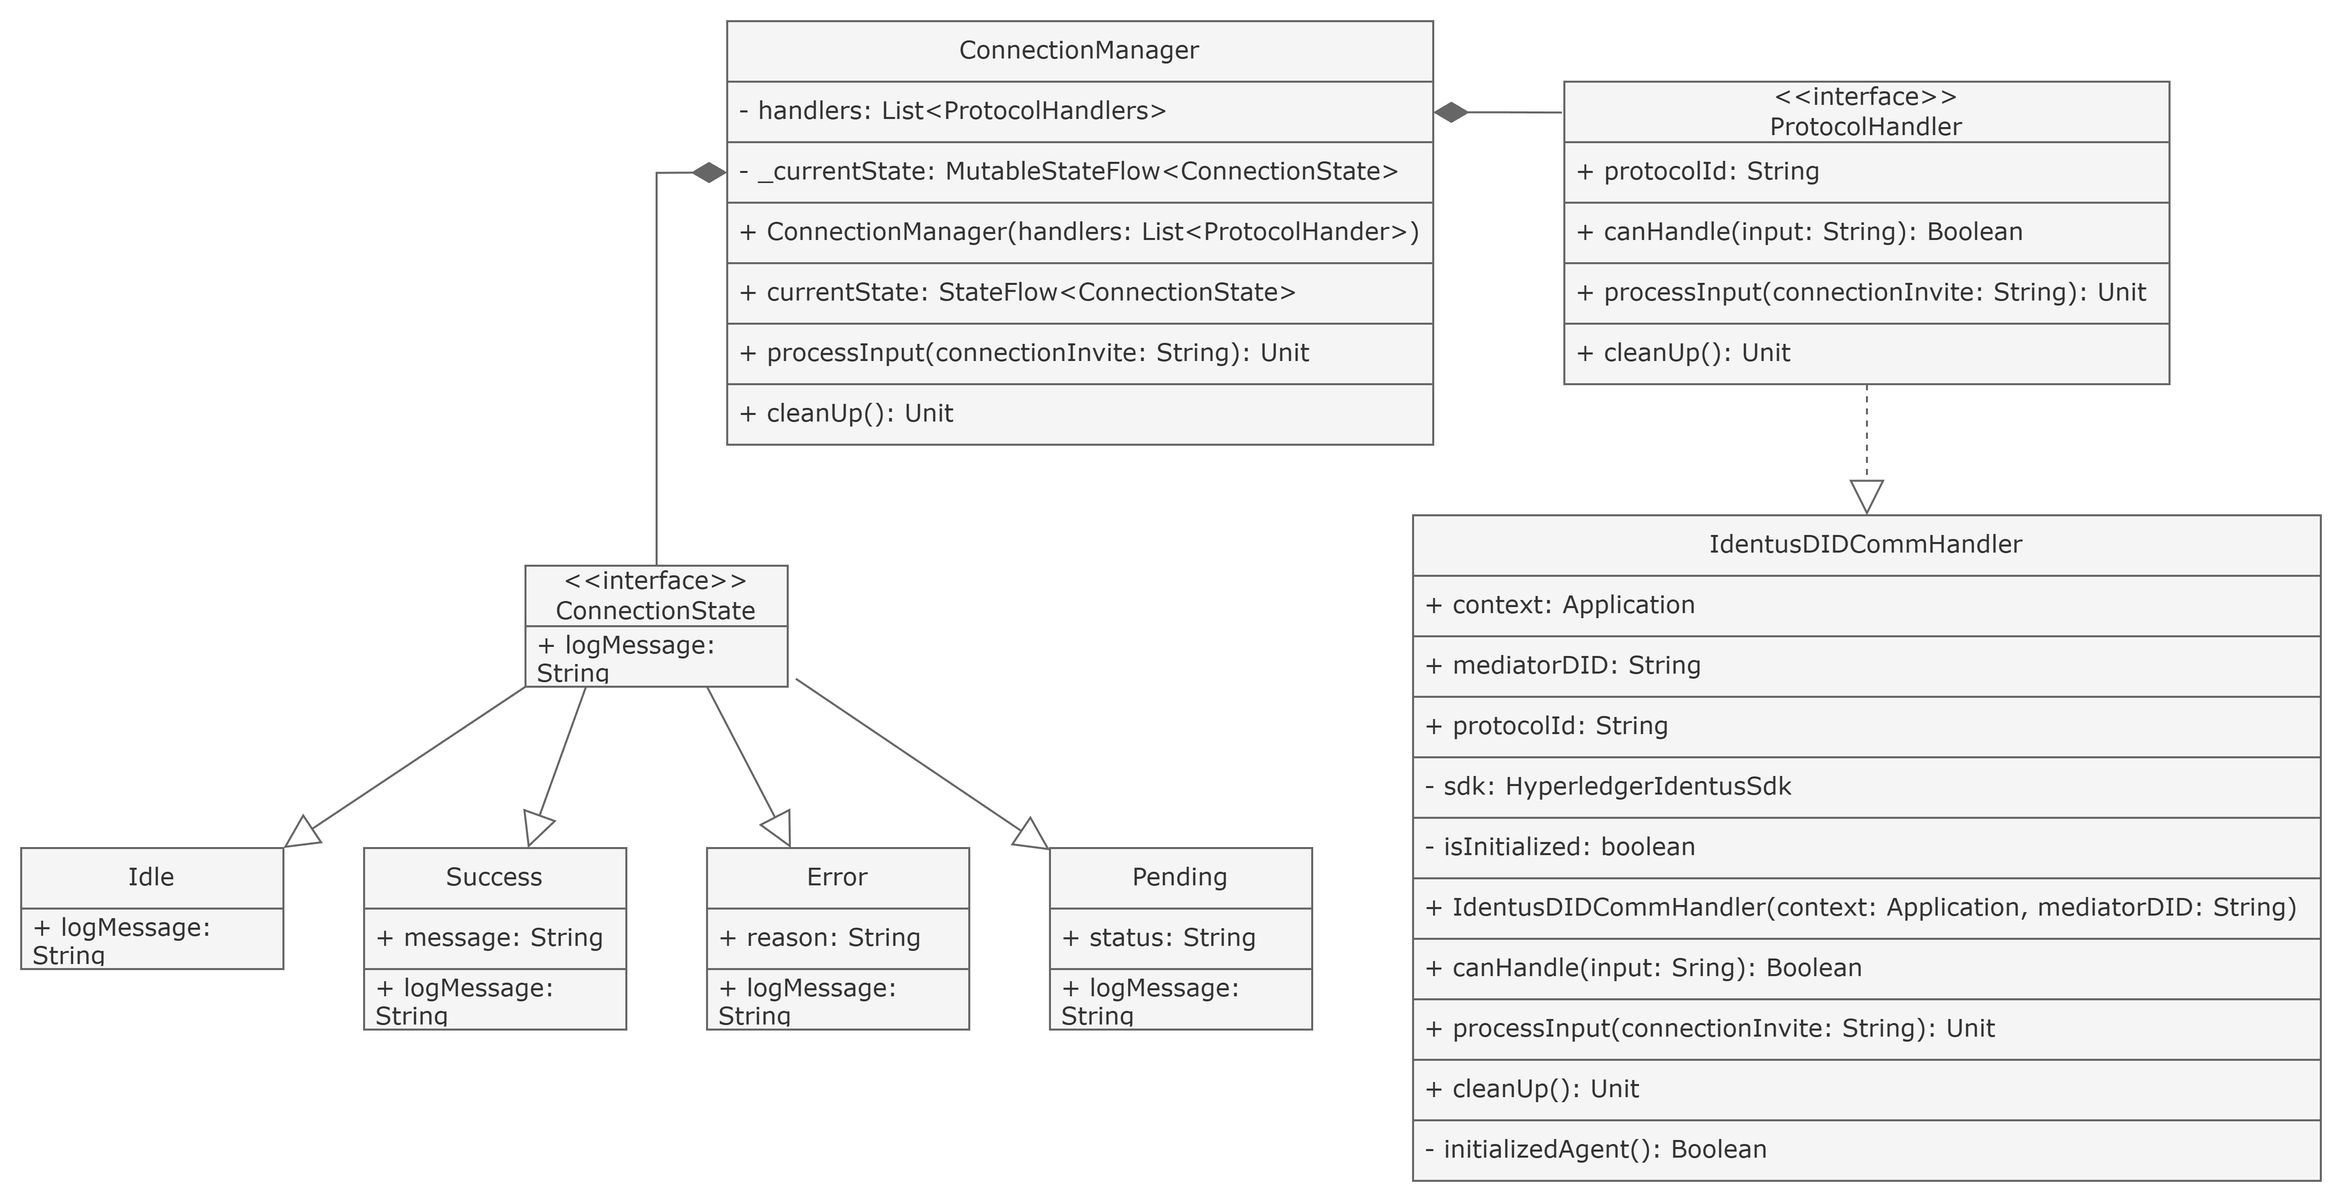
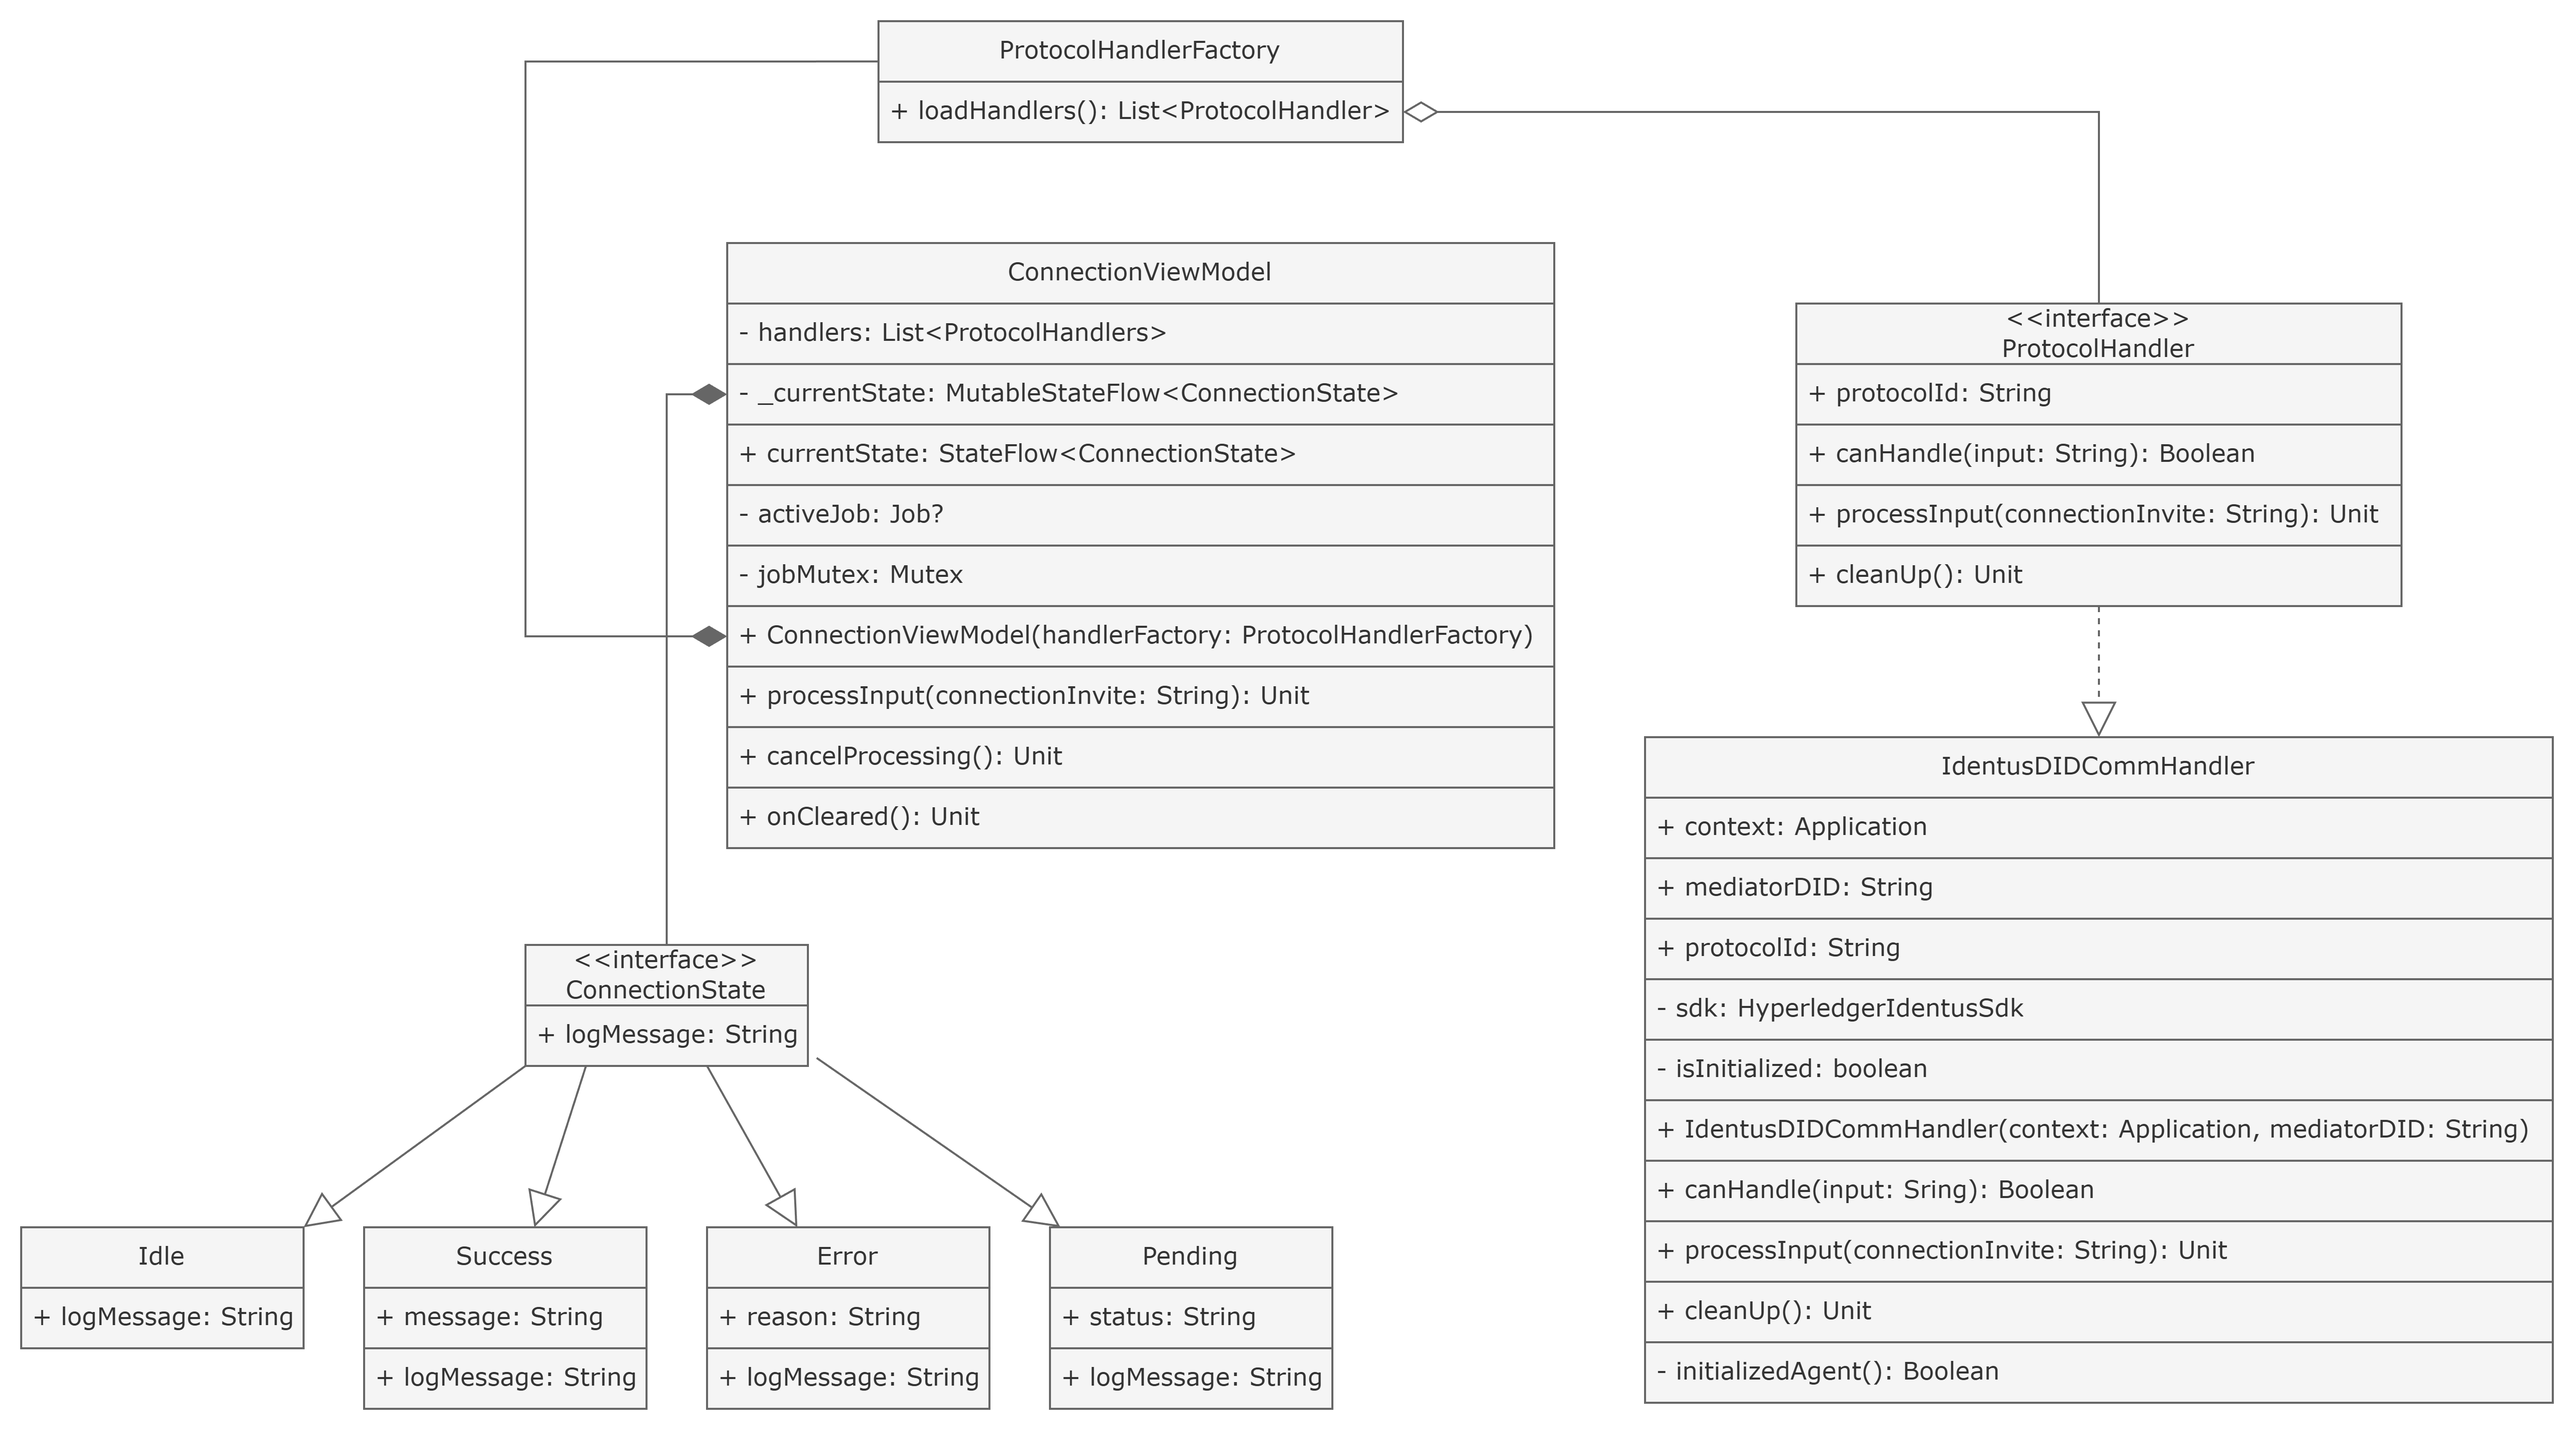
Refactor to accommodate MVVM pattern

diff --git a/composeApp/src/androidMain/kotlin/com/dev/usdi_wallet/MainActivity.kt b/composeApp/src/androidMain/kotlin/com/dev/usdi_wallet/MainActivity.kt
@@ -3,27 +3,31 @@ package com.dev.usdi_wallet
 import android.os.Bundle
 import androidx.activity.ComponentActivity
 import androidx.activity.compose.setContent
+import androidx.activity.viewModels
 import androidx.compose.foundation.layout.*
 import androidx.compose.material3.*
 import androidx.compose.ui.Modifier
-import com.dev.usdi_wallet.connection.ConnectionManager
-import com.dev.usdi_wallet.connection.hyperledger_identus.IdentusDIDCommHandler
+import androidx.lifecycle.ViewModel
+import androidx.lifecycle.ViewModelProvider
+import com.dev.usdi_wallet.connection.ProtocolHandlerFactory
+import com.dev.usdi_wallet.viewmodel.ConnectionViewModel
 
 class MainActivity : ComponentActivity() {
-    private lateinit var connectionManager: ConnectionManager
+    private val viewModel by viewModels<ConnectionViewModel> {
+        object : ViewModelProvider.Factory {
+            override fun <T : ViewModel> create(modelClass: Class<T>): T {
+                return ConnectionViewModel(
+                    handlerFactory = ProtocolHandlerFactory(
+                        context = applicationContext,
+                        mediatorDID = "did:peer:2.Ez6LSghwSE437wnDE1pt3X6hVDUQzSjsHzinpX3XFvMjRAm7y.Vz6Mkhh1e5CEYYq6JBUcTZ6Cp2ranCWRrv7Yax3Le4N59R6dd.SeyJ0IjoiZG0iLCJzIjp7InVyaSI6Imh0dHA6Ly8xMC4wLjIuMjo4MDgwIiwiYSI6WyJkaWRjb21tL3YyIl19fQ.SeyJ0IjoiZG0iLCJzIjp7InVyaSI6IndzOi8vMTAuMC4yLjI6ODA4MC93cyIsImEiOlsiZGlkY29tbS92MiJdfX0"
+                    )
+                ) as T
+            }
+        }
+    }
 
     override fun onCreate(savedInstanceState: Bundle?) {
         super.onCreate(savedInstanceState)
-
-        connectionManager = ConnectionManager(
-            handlers = listOf(
-                IdentusDIDCommHandler(
-                    context = application,
-                    // Demo mediatorDID
-                    mediatorDID = "did:peer:2.Ez6LSghwSE437wnDE1pt3X6hVDUQzSjsHzinpX3XFvMjRAm7y.Vz6Mkhh1e5CEYYq6JBUcTZ6Cp2ranCWRrv7Yax3Le4N59R6dd.SeyJ0IjoiZG0iLCJzIjp7InVyaSI6Imh0dHA6Ly8xMC4wLjIuMjo4MDgwIiwiYSI6WyJkaWRjb21tL3YyIl19fQ.SeyJ0IjoiZG0iLCJzIjp7InVyaSI6IndzOi8vMTAuMC4yLjI6ODA4MC93cyIsImEiOlsiZGlkY29tbS92MiJdfX0"
-                )
-            ),
-        )
 
         setContent {
             MaterialTheme {
@@ -31,14 +35,9 @@ class MainActivity : ComponentActivity() {
                     modifier = Modifier.fillMaxSize(),
                     color = MaterialTheme.colorScheme.background
                 ) {
-                    ConnectionTestScreen(connectionManager)
+                    ConnectionTestScreen(viewModel)
                 }
             }
         }
-    }
-
-    override fun onDestroy() {
-        super.onDestroy()
-        connectionManager.cleanUp()
     }
 }

diff --git a/shared/src/commonMain/kotlin/com/dev/usdi_wallet/viewmodel/ConnectionViewModel.kt b/shared/src/commonMain/kotlin/com/dev/usdi_wallet/viewmodel/ConnectionViewModel.kt
@@ -1,0 +1,57 @@
+package com.dev.usdi_wallet.viewmodel
+
+import androidx.lifecycle.ViewModel
+import androidx.lifecycle.viewModelScope
+import com.dev.usdi_wallet.connection.ConnectionState
+import com.dev.usdi_wallet.connection.ProtocolHandlerFactory
+import kotlinx.coroutines.flow.StateFlow
+import kotlinx.coroutines.Job
+import kotlinx.coroutines.flow.MutableStateFlow
+import kotlinx.coroutines.flow.update
+import kotlinx.coroutines.launch
+import kotlinx.coroutines.sync.Mutex
+import kotlinx.coroutines.sync.withLock
+
+class ConnectionViewModel(
+    handlerFactory: ProtocolHandlerFactory,
+): ViewModel() {
+    private val _currentState = MutableStateFlow<ConnectionState>(ConnectionState.Idle)
+    val currentState: StateFlow<ConnectionState> = _currentState
+    private var activeJob: Job? = null
+    private val jobMutex = Mutex()
+    private val handlers = handlerFactory.loadHandlers()
+
+    fun processInput(connectionInvite: String) {
+        val handler = handlers.find { it.canHandle(connectionInvite) }
+            ?: return _currentState.update { ConnectionState.Error("Unknown connection protocol") }
+
+        viewModelScope.launch {
+            jobMutex.withLock {
+                activeJob?.cancel()
+
+                activeJob = launch {
+                    try {
+                        handler.handle(connectionInvite).collect { newState ->
+                            _currentState.update { newState }
+                        }
+                    } catch (e: Exception) {
+                        _currentState.update { ConnectionState.Error(e.message ?: "Unknown Error") }
+                    }
+                }
+            }
+        }
+    }
+
+    suspend fun cancelProcessing() {
+        jobMutex.withLock {
+            activeJob?.cancel()
+            activeJob = null
+            _currentState.update { ConnectionState.Idle }
+        }
+    }
+
+    override fun onCleared() {
+        activeJob?.cancel()
+        handlers.forEach { it.cleanUp() }
+    }
+}

diff --git a/composeApp/src/androidMain/kotlin/com/dev/usdi_wallet/ConnectionTestScreen.kt b/composeApp/src/androidMain/kotlin/com/dev/usdi_wallet/ConnectionTestScreen.kt
@@ -25,14 +25,14 @@ import androidx.compose.ui.Alignment
 import androidx.compose.ui.Modifier
 import androidx.compose.ui.unit.dp
 import androidx.lifecycle.compose.collectAsStateWithLifecycle
-import com.dev.usdi_wallet.connection.ConnectionManager
 import com.dev.usdi_wallet.connection.ConnectionState
+import com.dev.usdi_wallet.viewmodel.ConnectionViewModel
 
 @OptIn(ExperimentalMaterial3Api::class)
 @Composable
-fun ConnectionTestScreen(connectionManager: ConnectionManager) {
+fun ConnectionTestScreen(viewModel: ConnectionViewModel) {
     var invitationInput by remember { mutableStateOf("") }
-    val connectionState by connectionManager.currentState.collectAsStateWithLifecycle()
+    val connectionState by viewModel.currentState.collectAsStateWithLifecycle()
 
     Column(
         modifier = Modifier
@@ -96,7 +96,7 @@ fun ConnectionTestScreen(connectionManager: ConnectionManager) {
         ) {
             Button(
                 onClick = {
-                    connectionManager.processInput(invitationInput)
+                    viewModel.processInput(invitationInput)
                 },
                 modifier = Modifier.weight(1f),
                 enabled = invitationInput.isNotBlank() &&

diff --git a/shared/src/androidMain/kotlin/com/dev/usdi_wallet/connection/hyperledger_identus/HyperledgerIdentusSdk.kt b/shared/src/androidMain/kotlin/com/dev/usdi_wallet/connection/hyperledger_identus/HyperledgerIdentusSdk.kt
@@ -51,7 +51,7 @@ class HyperledgerIdentusSdk private constructor(
     lateinit var agent: EdgeAgent
 
     @Throws(EdgeAgentError.MediationRequestFailedError::class, UnknownHostException::class)
-    suspend fun startAgent(mediatorDID: String, context: Application) {
+    suspend fun startAgent(mediatorDID: String, context: Context) {
         handler = createHandler(mediatorDID)
         agent = createAgent(handler)
 
@@ -81,7 +81,7 @@ class HyperledgerIdentusSdk private constructor(
         agentStatusStream.postValue(EdgeAgent.State.RUNNING)
     }
 
-    suspend fun startPluto(context: Application) {
+    suspend fun startPluto(context: Context) {
         (pluto as PlutoImpl).start(context)
     }
 

diff --git a/shared/src/androidMain/kotlin/com/dev/usdi_wallet/connection/hyperledger_identus/IdentusDIDCommHandler.kt b/shared/src/androidMain/kotlin/com/dev/usdi_wallet/connection/hyperledger_identus/IdentusDIDCommHandler.kt
@@ -1,6 +1,6 @@
 package com.dev.usdi_wallet.connection.hyperledger_identus
 
-import android.app.Application
+import android.content.Context
 import android.util.Log
 import com.dev.usdi_wallet.connection.ConnectionState
 import com.dev.usdi_wallet.connection.ProtocolHandler
@@ -12,7 +12,7 @@ import kotlinx.coroutines.flow.flow
 import org.hyperledger.identus.walletsdk.edgeagent.protocols.outOfBand.OutOfBandInvitation
 
 class IdentusDIDCommHandler(
-    private val context: Application,
+    private val context: Context,
     private val mediatorDID: String
 ): ProtocolHandler {
     override val protocolId: String = "identus-didcomm"

diff --git a/shared/src/androidMain/kotlin/com/dev/usdi_wallet/connection/ProtocolHandlerFactory.kt b/shared/src/androidMain/kotlin/com/dev/usdi_wallet/connection/ProtocolHandlerFactory.kt
@@ -1,0 +1,15 @@
+package com.dev.usdi_wallet.connection
+
+import android.content.Context
+import com.dev.usdi_wallet.connection.hyperledger_identus.IdentusDIDCommHandler
+
+actual class ProtocolHandlerFactory(
+    private val context: Context,
+    private val mediatorDID: String
+) {
+    actual fun loadHandlers(): List<ProtocolHandler> {
+        return listOf<ProtocolHandler>(
+            IdentusDIDCommHandler(context, mediatorDID),
+        )
+    }
+}

diff --git a/shared/src/commonMain/kotlin/com/dev/usdi_wallet/connection/ProtocolHandlerFactory.kt b/shared/src/commonMain/kotlin/com/dev/usdi_wallet/connection/ProtocolHandlerFactory.kt
@@ -1,0 +1,5 @@
+package com.dev.usdi_wallet.connection
+
+expect class ProtocolHandlerFactory {
+    fun loadHandlers(): List<ProtocolHandler>
+}

diff --git a/docs/CONNECTION.md b/docs/CONNECTION.md
@@ -4,12 +4,10 @@
 
 ## Store Github account and token in your Gradle directory
 ### Window
-1. Go to C:\Users\\\<username\>\\.gradle\\ (assuming you are running the project on Windows - if not, find equivalent path on your OS)
-2. Create a file called `gradle.properties` and add your credentials:
-### Linux
-1. Edit view all file, folder.
-2. Open .gradle folder
-3. Find file 'gradle.properties', if not  create and add.
+1. Go to your global `.gradle` directory:
+   - Windows: Go to C:\Users\\\<username\>\\.gradle\\
+   - Linux: Go to ~/.gradle
+2. Create a file called `gradle.properties` (if not exist) and add your credentials:
 
 ```bash
 gpr.user=YOUR_GITHUB_USER_NAME
@@ -17,10 +15,11 @@ gpr.key=YOUR_GITHUB_TOKEN
 ```
 
 ## Module Orchestration
-![img.png](connection_orchestration.png)
+![connection_orchestration.png](connection_orchestration.png)
 
 - `ConnectionManager` is the main entity governing all different handlers. This class should be singleton.
 - `ProtocolHandler` is the unified interface for connection protocols. New protocol must implement this class.
+- `ProtocolHandlerFactory` returns a list of `ProtocolHandler`s. This is an `expect class`, thus needs to have an actual implementation for each platform.
 - `ConnectionState` acts as an enum for connection states - unified different protocols into 4 states: `Idle`, `Success`, `Error` and `Pending`.
 
 ## Run Connection Module Demo
